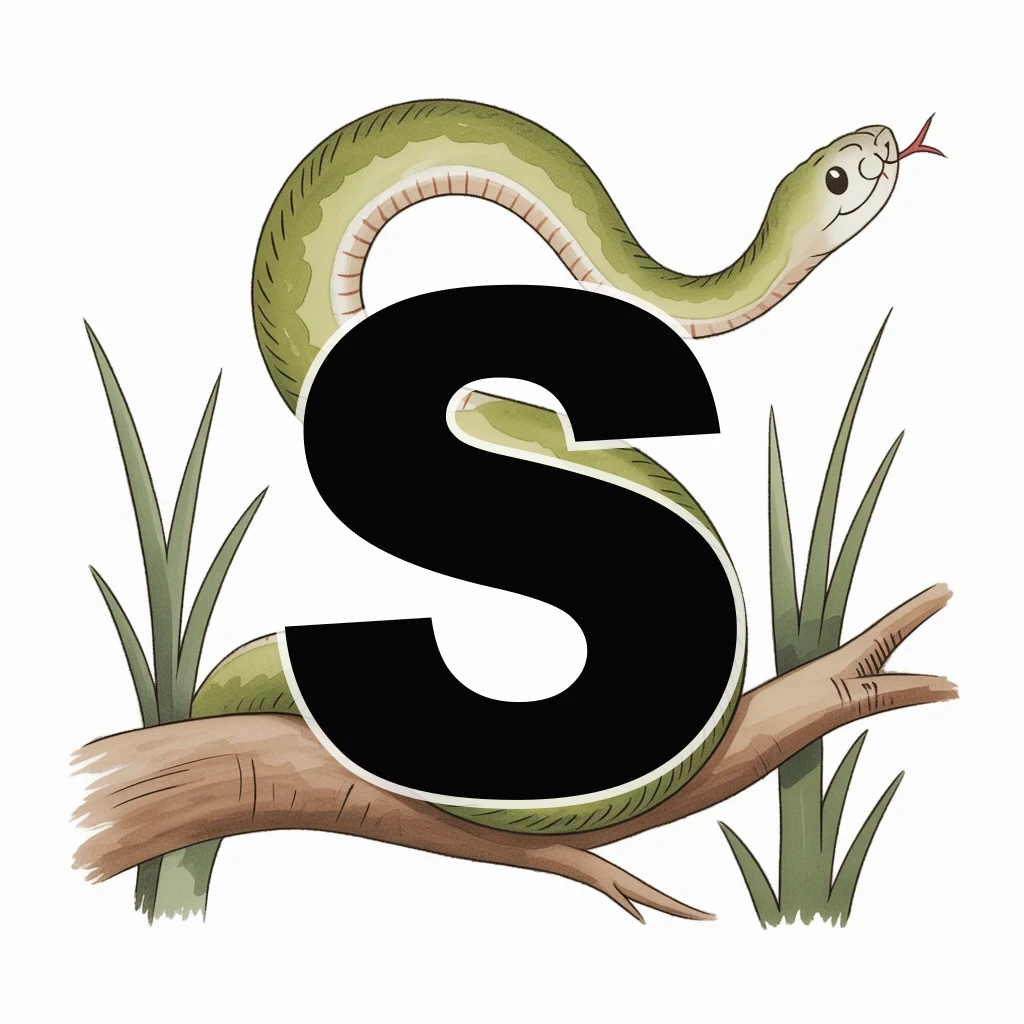
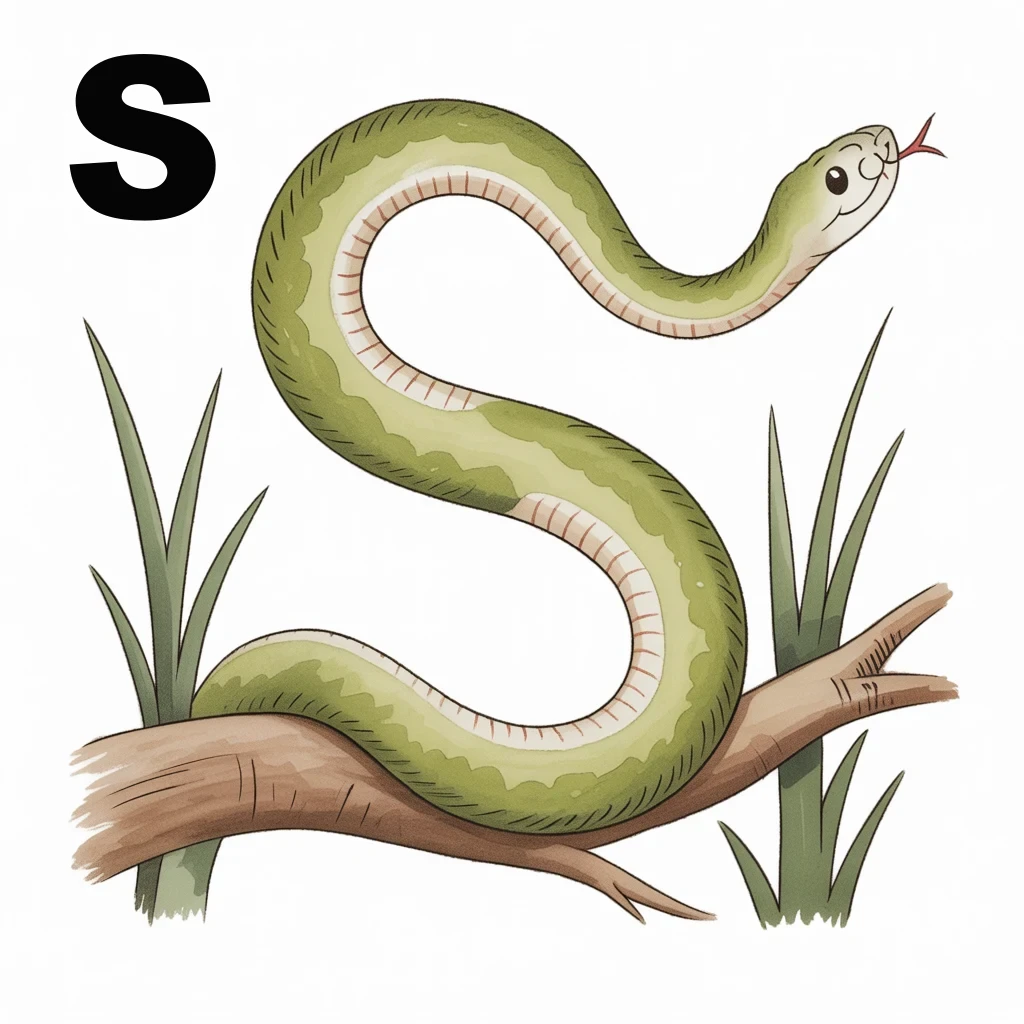
Use small letter labels on Sarah cards

Changed region(s): [[0.25, 0.25, 0.75, 0.8125], [0.0625, 0.0312, 0.2188, 0.2188]]

diff --git a/src/InteractiveHundredLesson.tsx b/src/InteractiveHundredLesson.tsx
@@ -57,15 +57,15 @@ function countStoryWords(items: string[]) {
   return items.reduce((sum, sentence) => sum + wordsFromSentence(sentence).filter((word) => /[A-Za-z']/u.test(word)).length, 0);
 }
 
-function countJourneySteps(chunks: HundredLessonChunk[]) {
-  const soundChunk = chunks.find((chunk) => chunk.type === 'sound-discovery' || chunk.type === 'sounds-words');
-  return Math.max(
-    1,
-    1 + chunks.reduce((sum, chunk) => {
-      if (chunk.type === 'story-gauntlet' || chunk.type === 'story') return sum + countStoryWords(chunk.items) + (chunk.items.length * 2) + 1;
-      return sum + chunk.items.length;
-    }, 0) + (soundChunk?.items.length ?? 0)
-  );
+function countJourneyStepsForActivity(activity?: LessonActivity) {
+  if (!activity) return 1;
+  if (activity.kind === 'collection-check') return 1;
+  if (activity.kind === 'picture-reveal') return 1;
+  if (activity.kind === 'sound-writing') return Math.max(1, activity.sounds.length);
+  if (activity.kind === 'complete') return 1;
+  const { chunk } = activity;
+  if (chunk.type === 'story-gauntlet' || chunk.type === 'story') return Math.max(1, countStoryWords(chunk.items) + (chunk.items.length * 2));
+  return Math.max(1, chunk.items.length);
 }
 
 function JourneyTracker({ step, totalSteps }: { step: number; totalSteps: number }) {
@@ -557,15 +557,18 @@ export function InteractiveHundredLessonScreen({
   }, [lessonId]);
 
   const activities = useMemo(() => buildLessonActivities(lesson?.chunks ?? []), [lesson]);
-  const journeyTotalSteps = useMemo(() => countJourneySteps(lesson?.chunks ?? []), [lesson]);
   const activity = activities[activityIndex];
+  const journeyTotalSteps = useMemo(() => countJourneyStepsForActivity(activity), [activity]);
   const sounds = activities.find((item): item is { kind: 'collection-check'; sounds: string[] } => item.kind === 'collection-check')?.sounds ?? [];
 
   useEffect(() => {
     const handleKeyDown = (event: KeyboardEvent) => {
       if (event.key === '4') {
         event.preventDefault();
-        if (activityIndex > 0) setActivityIndex((previous) => previous - 1);
+        if (activityIndex > 0) {
+          setJourneyStep(0);
+          setActivityIndex((previous) => previous - 1);
+        }
       }
     };
     window.addEventListener('keydown', handleKeyDown);
@@ -581,7 +584,10 @@ export function InteractiveHundredLessonScreen({
     );
   }
 
-  const completeActivity = () => setActivityIndex((previous) => Math.min(previous + 1, activities.length - 1));
+  const completeActivity = () => {
+    setJourneyStep(0);
+    setActivityIndex((previous) => Math.min(previous + 1, activities.length - 1));
+  };
   const advanceJourney = () => setJourneyStep((step) => Math.min(step + 1, journeyTotalSteps));
   const finishLesson = () => {
     localStorage.setItem('100-lessons-progress', String(lesson.lessonNumber + 1));

diff --git a/src/types.ts b/src/types.ts
@@ -40,7 +40,7 @@ export interface LetterIllustrationCard {
     fontWeight?: number | string
     color?: string
     opacity?: number
-    position?: 'center' | 'left' | 'right'
+    position?: 'center' | 'left' | 'right' | 'top-left'
     x?: number
     y?: number
     fontSizeRatio?: number
